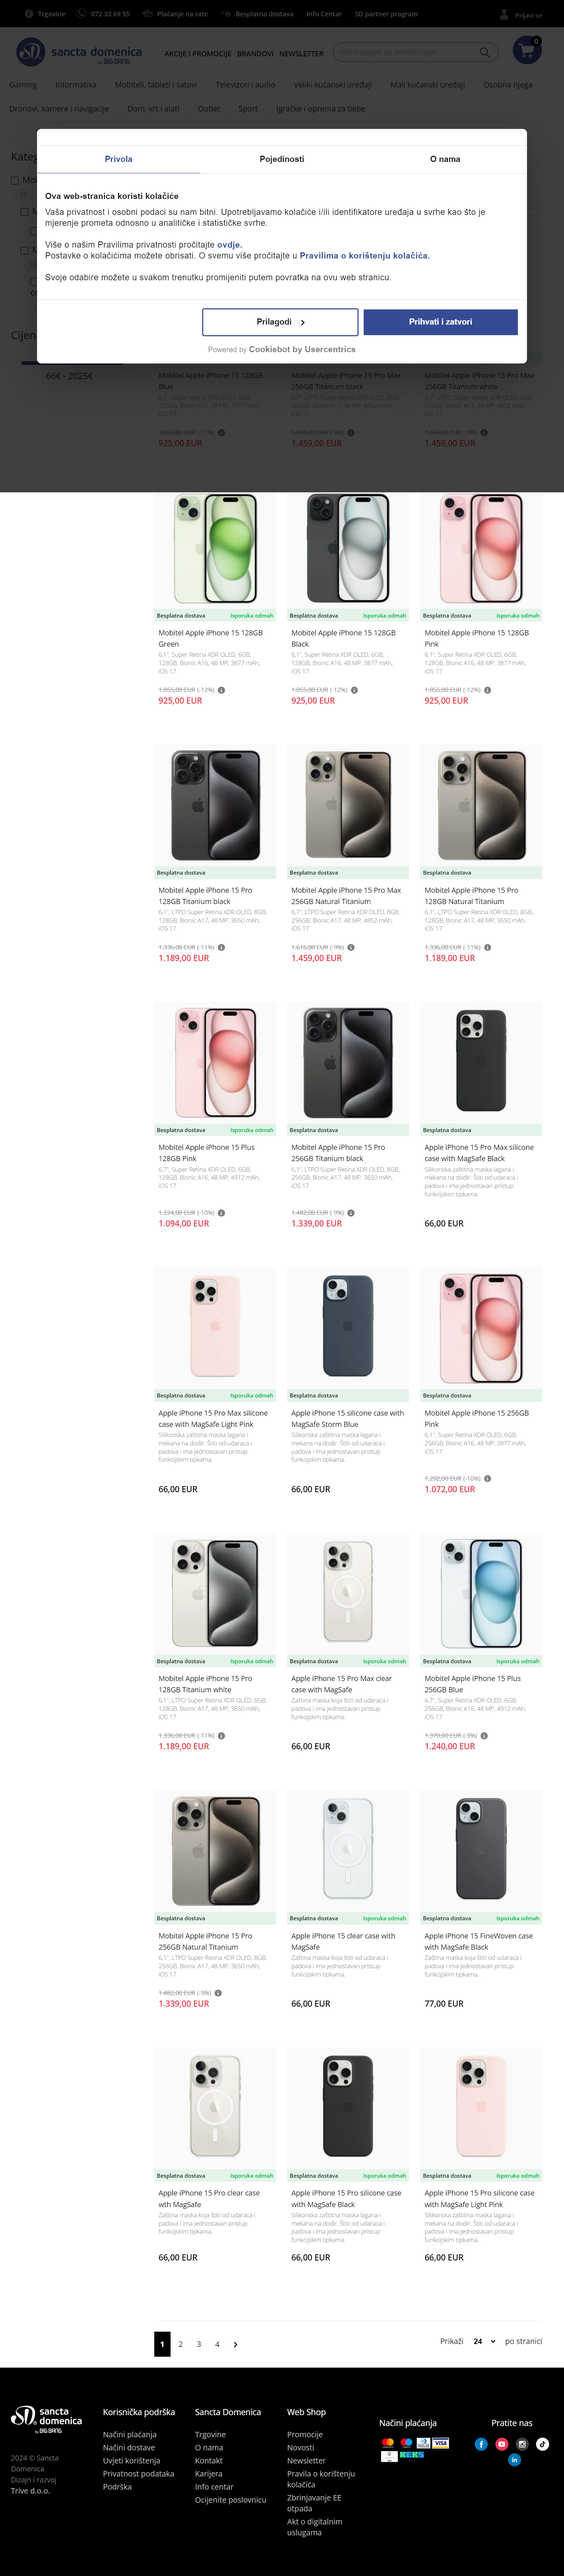
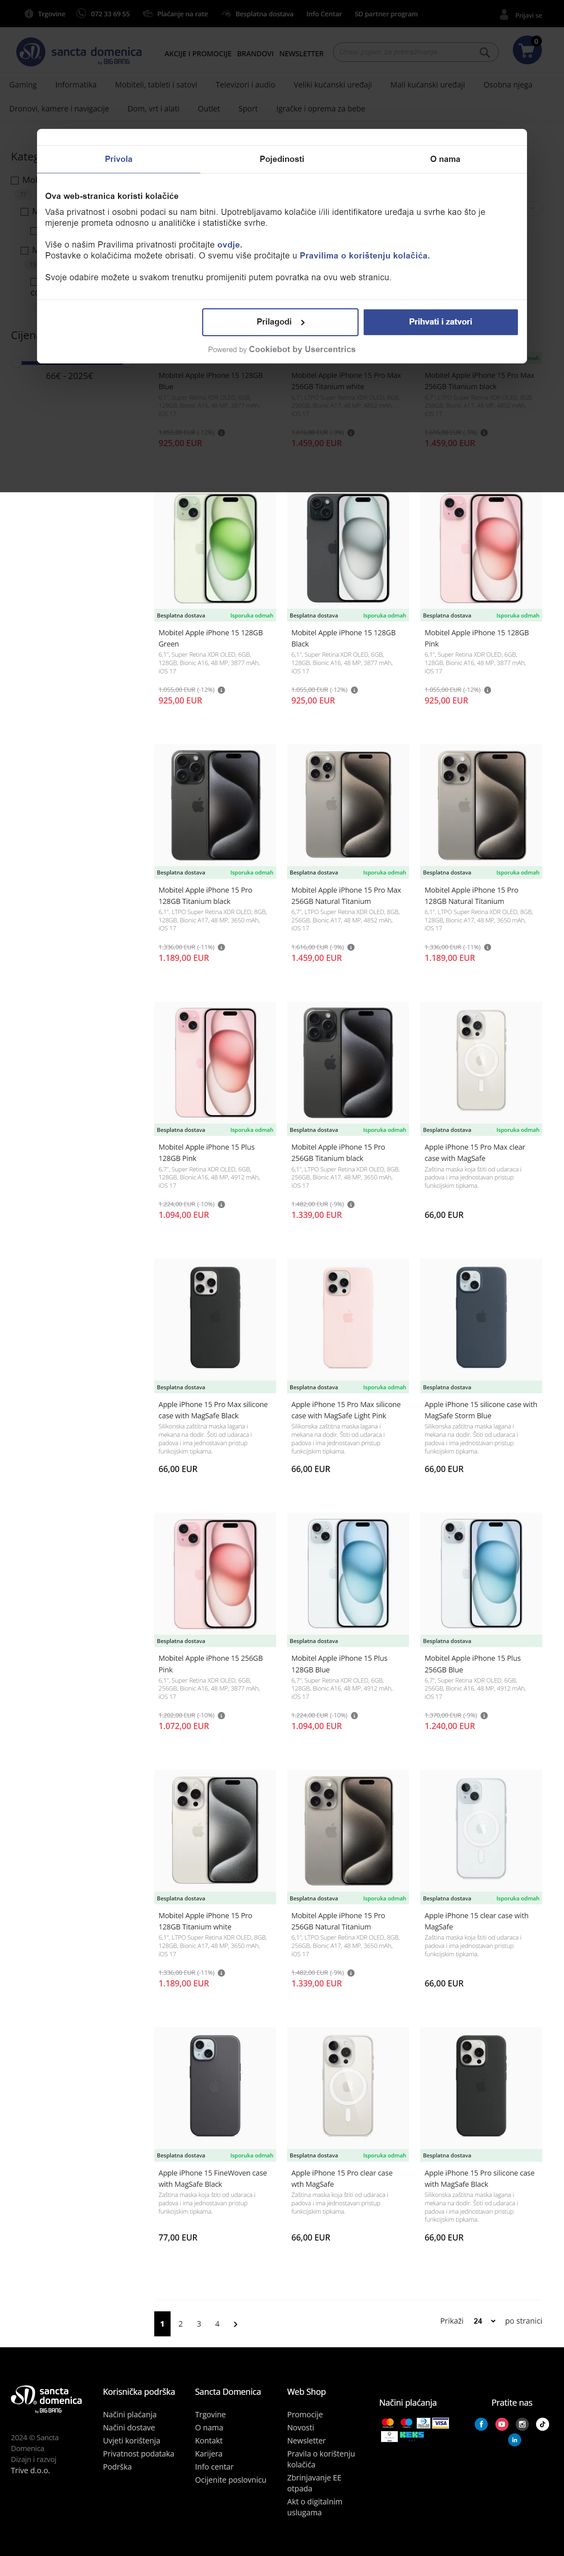
Add products controller for add new product and update product price

diff --git a/Server/controller/product/product.js b/Server/controller/product/product.js
@@ -1,0 +1,53 @@
+const { mallScraping } = require("../scrape/scrapeMALL");
+const { sanctaDomenicaScraping } = require("../scrape/scrapeSanctaDomenica");
+const Product = require("../../model/productModel");
+
+const updateProtuctsPrice = async (existingProducts, newProducts) => {
+  for (const newProduct of newProducts) {
+    const existingProdcut = existingProducts.find(
+      (product) => product.name === newProduct.name
+    );
+    if (existingProdcut && existingProdcut.price !== newProduct.price) {
+      await Product.updateOne(
+        { _id: existingProdcut._id },
+        { $set: { price: newProduct.price } }
+      );
+    }
+  }
+};
+
+const addNewProducts = async (newProducts, existingProducts) => {
+  const filteredProducts = newProducts.filter(
+    (newProduct) =>
+      !existingProducts.some((product) => product.name === newProduct.name)
+  );
+  await Product.create(filteredProducts);
+};
+
+const productController = async () => {
+  const mallDataPromise = mallScraping();
+  const sanctaDomenicaDataPromise = sanctaDomenicaScraping();
+  const promises = [mallDataPromise, sanctaDomenicaDataPromise];
+  const scrapingFunctions = [mallScraping, sanctaDomenicaScraping];
+  const results = await Promise.allSettled(promises);
+
+  results.forEach(async (result, index) => {
+    if (result.status === "rejected") {
+      const functionName =
+        scrapingFunctions[index].name || `Function${index + 1}`;
+      console.error(`Promise ${functionName} rejected with ${result.reason}`);
+    } else {
+      const newProducts = result.value;
+      const existingProducts = await Product.find();
+      console.log(existingProducts.length);
+      if (existingProducts.length === 0) {
+        await Product.create(newProducts);
+      } else {
+        updateProtuctsPrice(existingProducts, newProducts);
+        addNewProducts(newProducts, existingProducts);
+      }
+    }
+  });
+};
+
+module.exports = { productController };

diff --git a/Server/router/scrapeRouter.js b/Server/router/scrapeRouter.js
@@ -1,9 +1,5 @@
 const express = require("express");
-const { mallScraping } = require("../controller/scrape/scrapeMALL");
-const {
-  sanctaDomenicaScraping,
-} = require("../controller/scrape/scrapeSanctaDomenica");
-const Product = require("../model/productModel");
+const { productController } = require("../controller/product/product");
 const router = express.Router();
 let scapingInProgress = false;
 
@@ -13,25 +9,11 @@ router.get("/", async (req, res, next) => {
   }
   try {
     scapingInProgress = true;
-    const mallDataPromise = mallScraping();
-    const sanctaDomenicaDataPromise = sanctaDomenicaScraping();
-    const promises = [mallDataPromise, sanctaDomenicaDataPromise];
-    const scrapingFunctions = [mallScraping, sanctaDomenicaScraping];
-
-    const results = await Promise.allSettled(promises);
-
-    results.forEach(async (result, index) => {
-      if (result.status === "rejected") {
-        const functionName =
-          scrapingFunctions[index].name || `Function${index + 1}`;
-        console.error(`Promise ${functionName} rejected with ${result.reason}`);
-      } else {
-        const combinedData = result.value;
-        await Product.create(combinedData);
-      }
+    await productController();
+    await res.json({
+      success: true,
+      message: "Podaci uspješno spremljeni u bazu.",
     });
-
-    res.json({ success: true, message: "Podaci uspješno spremljeni u bazu." });
   } catch (error) {
     console.log(error);
   } finally {

diff --git a/README.md b/README.md
@@ -216,3 +216,12 @@ document.querySelector(".button--loading")
 }
 
 products
+////////////////////////////////////////////////////////////////
+
+1. prvo dohvati sve proizvode iz baze
+2. idi kroz nove dohvacene proizvode usporedi ih sa postojecim (usporedi sa imenom)
+3. kada se imena potrefe, usporedi im cijene ako se razlikuju staru cijenu zamjeni novom
+4. update taj proizvod
+
+5. idi kroz nove proizvode i usporedi da li postoji proizvod koji nije u bazi
+   tj. ako postoji onaj proizvod koji nije jednak imenima iz nase baze ubaci ih u bazu (samo njih)
